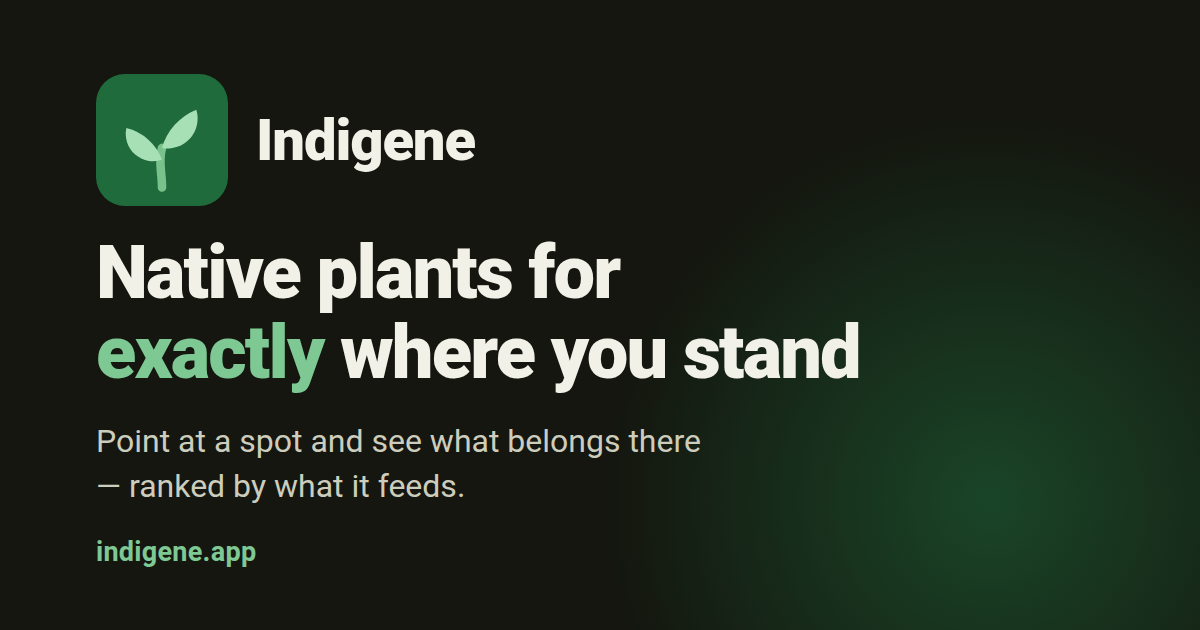
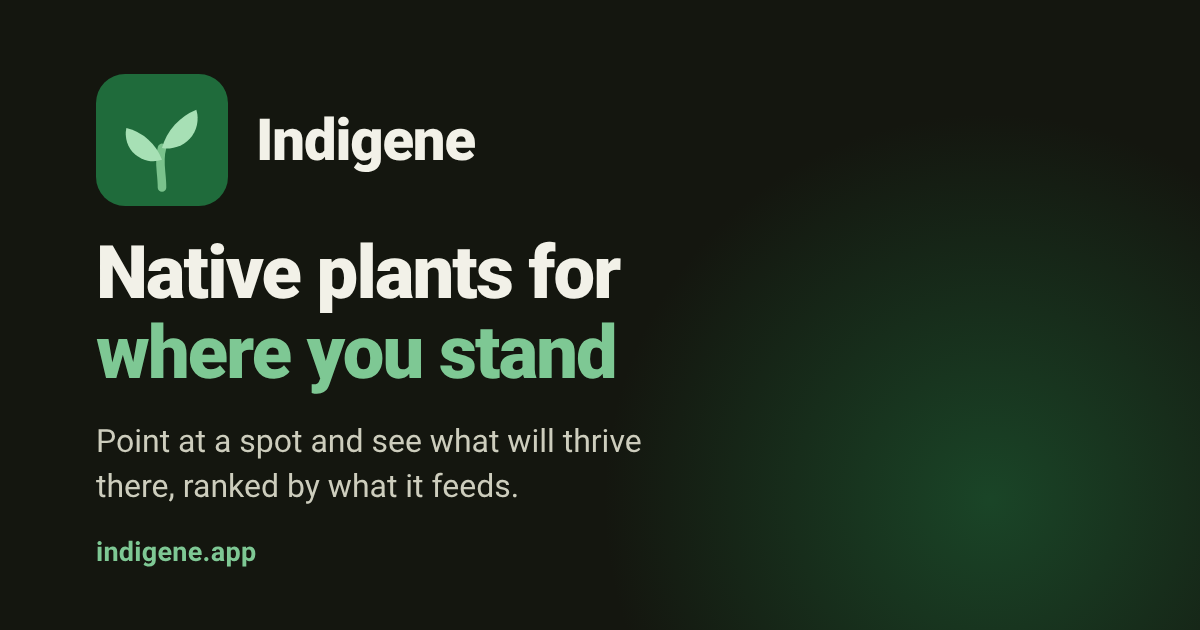
One tagline, from one file: native plants for where you stand
The title, share tags, 404 page, install name, site share card, card
alt text and the film's share text each carried their own copy, and
they had drifted ("for exactly where you stand" in five, the shorter
line in the manifest). Now:

- src/data/brand.json holds the name, the tagline in English and French,
  and the words the share card highlights
- index.html: %APP_TITLE%, filled by a Vite plugin in dev and build
- 404.html and manifest.webmanifest: %APP_TITLE%, filled by prerender
  (copied from public/ verbatim, so Vite can't)
- locales: app.title and film.shareText built from lib/brand.ts
- gen-og-image.mjs draws the headline from the file; share-card.png
  regenerated. Its subline said "see what belongs there", the framing
  CLAUDE.md rules out, so it now says "what will thrive there"
- brand.test.ts fails on any typed-out copy (seen failing on a planted
  one in 404.html) and on a missing placeholder

Claude-Session: https://claude.ai/code/session_01DCUKWNYsVkTJ55aEkM3EWj

diff --git a/app/src/lib/brand.test.ts b/app/src/lib/brand.test.ts
@@ -1,0 +1,35 @@
+// The tagline has one home, data/brand.json. It drifted when it had six, so
+// this fails on any copy typed out anywhere else, and on any of the
+// placeholders the build fills going missing. Files are read as text through
+// the same `?raw` glob emoji.test.ts and llm-bill.test.ts use.
+import { describe, it, expect } from "vitest";
+import BRAND from "../data/brand.json";
+import { appTitle, taglineSentence } from "./brand";
+import { en } from "../locales/en";
+import { fr } from "../locales/fr";
+
+const SHELL = import.meta.glob(["../../index.html", "../../public/404.html", "../../public/manifest.webmanifest"], { query: "?raw", import: "default", eager: true }) as Record<string, string>;
+const CODE = import.meta.glob(["../**/*.ts", "../../scripts/*.mjs", "!./brand.test.ts"], { query: "?raw", import: "default", eager: true }) as Record<string, string>;
+
+describe("brand", () => {
+  it("builds the title from the tagline", () => {
+    expect(appTitle("en")).toBe(`${BRAND.name} — ${BRAND.tagline.en}`);
+    expect(taglineSentence("en").toLowerCase()).toBe(BRAND.tagline.en);
+    expect(en["app.title"]).toBe(appTitle("en"));
+    expect(fr["app.title"]).toBe(appTitle("fr"));
+  });
+
+  it("keeps the placeholders the build fills", () => {
+    expect(Object.keys(SHELL)).toHaveLength(3);
+    for (const [path, text] of Object.entries(SHELL)) expect(text, path).toContain("%APP_TITLE%");
+  });
+
+  it("is typed out nowhere but data/brand.json", () => {
+    const copies = [...Object.values(BRAND.tagline), "for exactly where you stand"].map((c) => c.toLowerCase());
+    const found = Object.entries({ ...SHELL, ...CODE })
+      .filter(([, text]) => copies.some((c) => text.toLowerCase().includes(c)))
+      .map(([path]) => path);
+    expect(Object.keys(CODE).length).toBeGreaterThan(50);
+    expect(found).toEqual([]);
+  });
+});

diff --git a/app/index.html b/app/index.html
@@ -72,7 +72,7 @@
       name="description"
       content="Stand in a spot, and find native plants that will actually thrive there — ranked by what they do for the local ecosystem."
     />
-    <title>Indigene — native plants for exactly where you stand</title>
+    <title>%APP_TITLE%</title>
     <link rel="canonical" href="https://indigene.app/" />
 
     <!-- The app is one page in two languages, and `?lang=` is what pins a link
@@ -107,7 +107,7 @@
     <meta property="og:type" content="website" />
     <meta property="og:site_name" content="Indigene" />
     <meta property="og:url" content="https://indigene.app/" />
-    <meta property="og:title" content="Indigene — native plants for exactly where you stand" />
+    <meta property="og:title" content="%APP_TITLE%" />
     <meta
       property="og:description"
       content="Stand in a spot, and find native plants that will actually thrive there — ranked by what they do for the local ecosystem."
@@ -117,14 +117,14 @@
     <meta property="og:image:height" content="630" />
     <meta
       property="og:image:alt"
-      content="Indigene — native plants for exactly where you stand"
+      content="%APP_TITLE%"
     />
     <!-- Stamped to the actual UI language on boot (components/chrome.ts); the
          static value is what an unfurler that doesn't run JS is served. -->
     <meta property="og:locale" content="en" />
     <meta property="og:locale:alternate" content="fr" />
     <meta name="twitter:card" content="summary_large_image" />
-    <meta name="twitter:title" content="Indigene — native plants for exactly where you stand" />
+    <meta name="twitter:title" content="%APP_TITLE%" />
     <meta
       name="twitter:description"
       content="Stand in a spot, and find native plants that will actually thrive there — ranked by what they do for the local ecosystem."

diff --git a/app/vite.config.ts b/app/vite.config.ts
@@ -1,5 +1,6 @@
 import { defineConfig, type Plugin } from "vite";
 import { withCsp } from "./src/lib/csp";
+import { appTitle } from "./src/lib/brand";
 
 // The config runs under Node, but the project compiles with `types: []` and
 // no @types/node — declare the one global it reads instead of adding a dep.
@@ -16,6 +17,17 @@ function csp(): Plugin {
   };
 }
 
+/** Fill `%APP_TITLE%` in index.html from `data/brand.json`, in dev and build,
+ *  so the page title and share tags can't drift from the app's own copy.
+ *  `public/404.html` and the manifest are copied verbatim, so
+ *  `scripts/prerender.mjs` fills theirs. */
+function brand(): Plugin {
+  return {
+    name: "indigene-brand",
+    transformIndexHtml: { order: "pre", handler: (html) => html.replaceAll("%APP_TITLE%", appTitle("en")) },
+  };
+}
+
 // No framework plugins on purpose: this app is built on the DOM and real web
 // APIs. The service worker (public/sw.js) is hand-written and copied verbatim
 // so its behaviour is legible and debuggable, rather than generated.
@@ -24,7 +36,7 @@ export default defineConfig({
   // GitHub Pages serves project sites under /<repo>/ — the deploy workflow
   // sets BASE_PATH so built asset URLs resolve there. Defaults to "/" locally.
   base: process.env.BASE_PATH || "/",
-  plugins: [csp()],
+  plugins: [brand(), csp()],
   build: {
     target: "es2022",
     sourcemap: true,

diff --git a/app/src/locales/en.ts b/app/src/locales/en.ts
@@ -16,6 +16,8 @@
 //  - Units never appear baked into a sentence. "3 ft" comes from `units.ts`,
 //    which the reader can switch independently of the language (see the note
 //    at the top of `lib/units.ts`).
+import { appTitle, taglineSentence } from "../lib/brand";
+
 export const en = {
   // ---------------------------------------------------------------------
   // Unit words. The *system* is the reader's own setting; these are just the
@@ -33,7 +35,7 @@ export const en = {
   // ---------------------------------------------------------------------
   // App chrome: the header, nav, footer and the progress rail.
   // ---------------------------------------------------------------------
-  "app.title": "Indigene — native plants for exactly where you stand",
+  "app.title": appTitle("en"),
   "app.name": "Indigene",
   "app.skipToContent": "Skip to main content",
   "app.offline": "Offline — using saved data",
@@ -261,7 +263,7 @@ export const en = {
   "film.play": "Watch the 1-minute film",
   "film.lede": "What Indigene does and who it's for, in one minute.",
   "film.share": "Share the film",
-  "film.shareText": "Native plants for exactly where you stand, in a one-minute film:",
+  "film.shareText": `${taglineSentence("en")}, in a one-minute film:`,
 
   // ---------------------------------------------------------------------
   // Browse (the no-location entrance).

diff --git a/app/src/locales/fr.ts b/app/src/locales/fr.ts
@@ -14,6 +14,7 @@
 // Typography is French: « » for quotes and a narrow no-break space before the
 // double punctuation marks (: ; ! ?) and inside guillemets.
 import type { Dict } from "./en";
+import { appTitle, taglineSentence } from "../lib/brand";
 
 export const fr: Dict = {
   // ---------------------------------------------------------------------
@@ -32,7 +33,7 @@ export const fr: Dict = {
   // ---------------------------------------------------------------------
   // Habillage de l'application.
   // ---------------------------------------------------------------------
-  "app.title": "Indigene — les plantes indigènes de l'endroit exact où vous êtes",
+  "app.title": appTitle("fr"),
   "app.name": "Indigene",
   "app.skipToContent": "Aller au contenu principal",
   "app.offline": "Hors ligne — données enregistrées",
@@ -277,7 +278,7 @@ export const fr: Dict = {
   "film.play": "Voir le film (1 min)",
   "film.lede": "Ce que fait Indigene, et pour qui, en une minute.",
   "film.share": "Partager le film",
-  "film.shareText": "Des plantes indigènes pour l'endroit exact où vous êtes, en un film d'une minute :",
+  "film.shareText": `${taglineSentence("fr")}, en un film d'une minute :`,
 
   // ---------------------------------------------------------------------
   // Parcourir.

diff --git a/app/public/404.html b/app/public/404.html
@@ -58,7 +58,7 @@
     <meta property="og:type" content="website" />
     <meta property="og:site_name" content="Indigene" />
     <meta property="og:url" content="https://indigene.app/" />
-    <meta property="og:title" content="Indigene — native plants for exactly where you stand" />
+    <meta property="og:title" content="%APP_TITLE%" />
     <meta
       property="og:description"
       content="Stand in a spot, and find native plants that will actually thrive there — ranked by what they do for the local ecosystem."
@@ -68,10 +68,10 @@
     <meta property="og:image:height" content="630" />
     <meta
       property="og:image:alt"
-      content="Indigene — native plants for exactly where you stand"
+      content="%APP_TITLE%"
     />
     <meta name="twitter:card" content="summary_large_image" />
-    <meta name="twitter:title" content="Indigene — native plants for exactly where you stand" />
+    <meta name="twitter:title" content="%APP_TITLE%" />
     <meta
       name="twitter:description"
       content="Stand in a spot, and find native plants that will actually thrive there — ranked by what they do for the local ecosystem."

diff --git a/app/src/lib/brand.ts b/app/src/lib/brand.ts
@@ -1,0 +1,26 @@
+// The app's name and tagline, from one file (`data/brand.json`).
+//
+// The tagline appears in the page title, the share tags, the 404 page, the
+// install name, the share cards and the film's share text. Each used to carry
+// its own copy, and they drifted: five said one thing, the sixth another. Now
+// `index.html` takes it
+// through `vite.config.ts`, `404.html` and the manifest through
+// `scripts/prerender.mjs`, the cards through their generators, and the
+// locale files through this module. `brand.test.ts` fails on any copy typed
+// out anywhere else.
+import BRAND from "../data/brand.json";
+
+export type BrandLang = keyof typeof BRAND.tagline;
+
+export const APP_NAME = BRAND.name;
+
+/** The app's name, a dash, and the tagline. */
+export function appTitle(lang: BrandLang = "en"): string {
+  return `${BRAND.name} — ${BRAND.tagline[lang]}`;
+}
+
+/** The tagline as the start of a sentence, capitalized. */
+export function taglineSentence(lang: BrandLang = "en"): string {
+  const t = BRAND.tagline[lang];
+  return t.charAt(0).toUpperCase() + t.slice(1);
+}

diff --git a/changelog.d/claude-indigene-blog-post-outline-dw1kf1.md b/changelog.d/claude-indigene-blog-post-outline-dw1kf1.md
@@ -4,6 +4,11 @@
 - [Peoples and plants](https://indigene.app/people): the plant pages that say who tended each plant, and sources published by the nations themselves, from the Myaamia Center to Te Haumanu Taiao.
 - Internal: `posts/<slug>` pages (`data/posts.ts`, `steps/posts.ts`) and `steps/people.ts`, prerendered with share cards. Every claim in the post was checked against a quoted source; the research is in `docs/outreach/indigenous-plant-history-sources.md` and PR #234.
 
+### Changed
+
+- Indigene's title and share picture now say "native plants for where you stand", shorter and the same everywhere a link to it appears.
+- Internal: the name and tagline live in `src/data/brand.json`. `index.html` fills them through `vite.config.ts`, `404.html` and the manifest through `prerender.mjs`, the cards through their generators; `brand.test.ts` fails on any copy typed out elsewhere.
+
 ### Fixed
 
 - Plants: karaka's page now says Māori planted it for its kernels, which are food only after long cooking and soaking, not for its fruit. Harakeke is the main plant of Māori weaving, not the only one.
